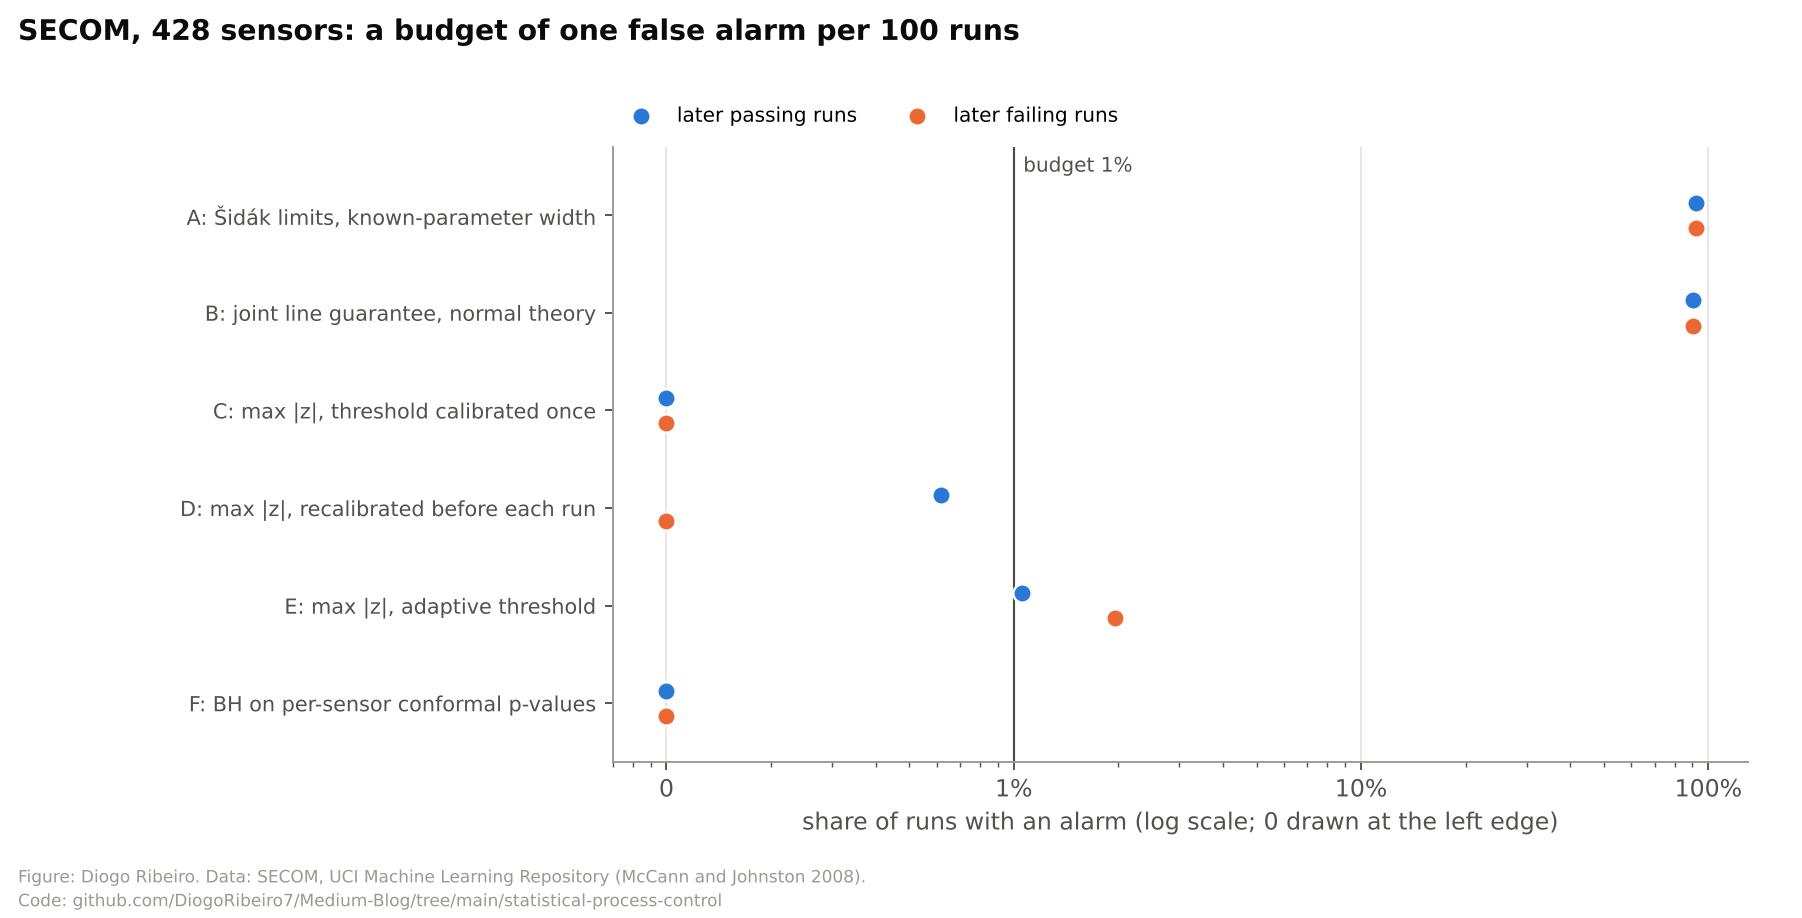
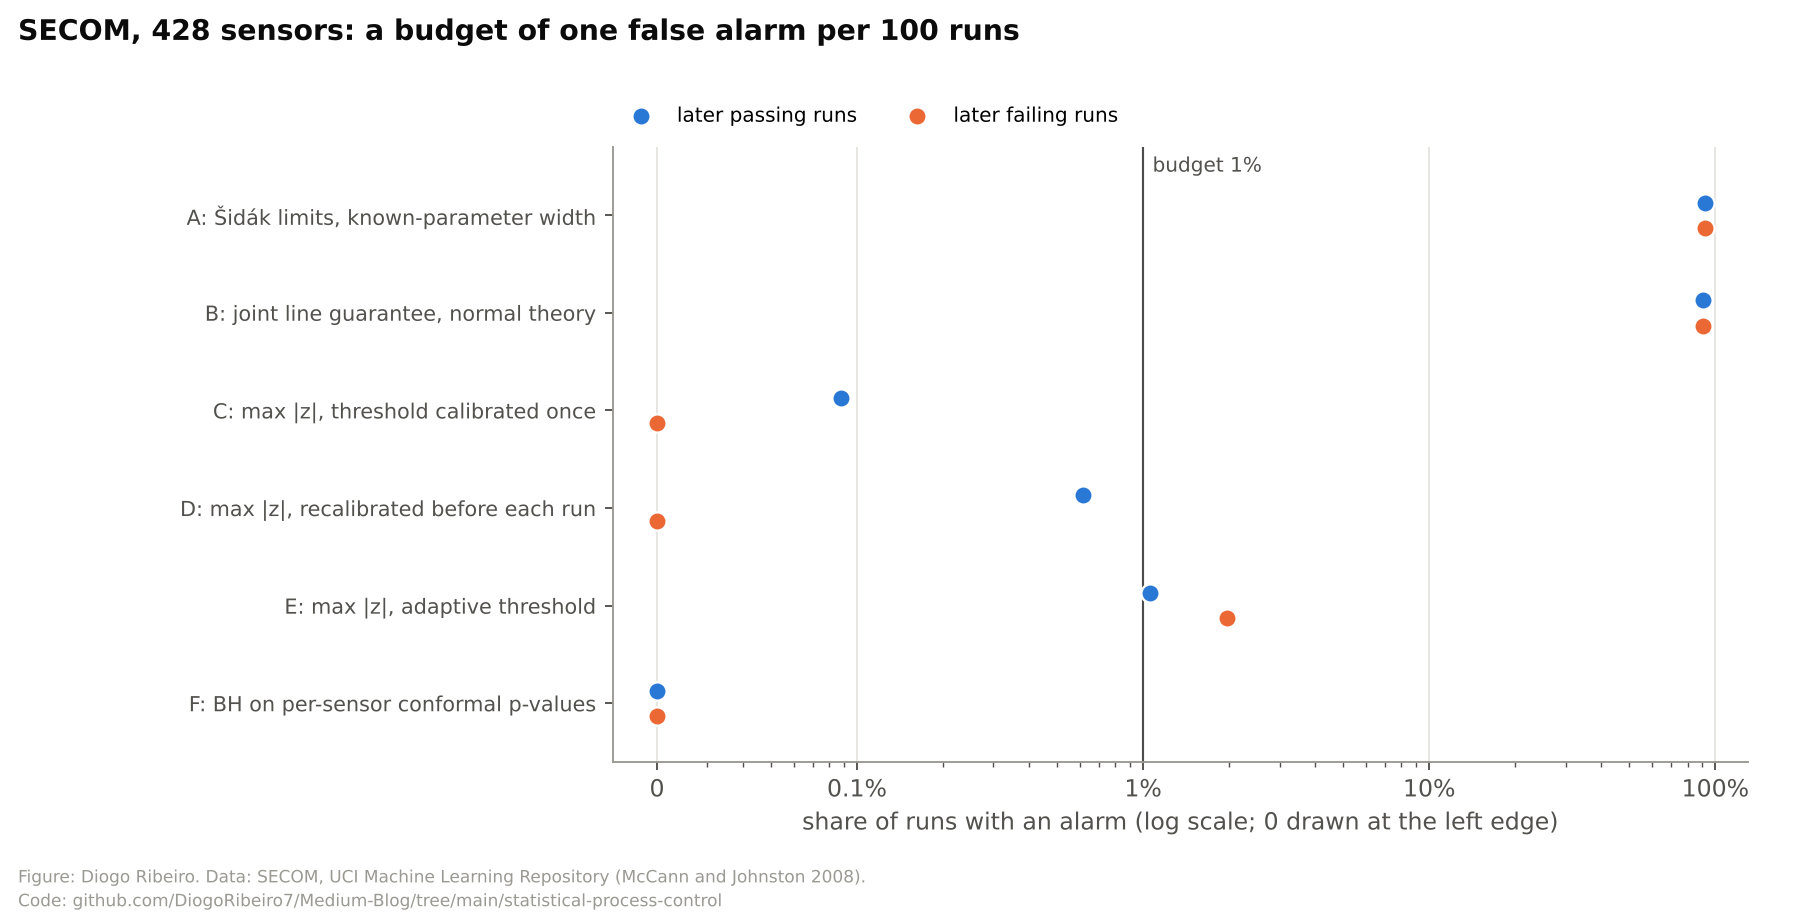
Statistical process control part 4: corrections from verification

diff --git a/statistical-process-control/part4/budget_numbers.py b/statistical-process-control/part4/budget_numbers.py
@@ -592,6 +592,22 @@ def section_secom() -> None:
               f" = {a_f / tf.sum():.3f}; Fisher p {pf:.3g}")
         fig[name] = {"pass": a_p / float(tp.sum()), "fail": a_f / float(tf.sum())}
     print(f"   design F: smallest p-value in a test run: minimum {min(min_p):.6f}, maximum {max(min_p):.6f}")
+    at_min = np.sum(np.isclose(PV, pv_min), axis=1)
+    le01 = np.sum(PV <= aL, axis=1)
+    print(f"   design F: sensors at the minimum p-value in one test run: median {np.median(at_min):.0f}, maximum "
+          f"{at_min.max()}; sensors with p <= {aL}: median {np.median(le01):.0f}, maximum {le01.max()} (BH needs {need})")
+    cols = np.flatnonzero(use)
+    j = int(np.nanargmax(Zabs[cal[np.argmax(score[cal])]]))
+    c = cols[j]
+    i_max = cal[np.argmax(score[cal])]
+    v = X[:, c]
+    print(f"   design C threshold comes from sensor column {c} (0-based) in calibration run {i_max} ({stamps[i_max]}): "
+          f"value {v[i_max]:.2f}; Phase I mean {mu[c]:.4f}, SD {sd[c]:.4f}, distinct Phase I values "
+          f"{len(np.unique(v[p1][~np.isnan(v[p1])]))}")
+    big = np.flatnonzero(np.abs(v - mu[c]) > 1000 * sd[c])
+    print(f"   runs where that sensor is more than 1,000 Phase I SDs from its Phase I mean: "
+          + ", ".join(f"{i} ({stamps[i].date()}, {v[i]:.2f})" for i in big))
+    print(f"   design C alarms: runs {[int(i) for i in np.flatnonzero(designs['C calibrated threshold, fixed'] & test)]}")
     late = test & ~fail
     months = np.array([s.strftime("%Y-%m") for s in stamps])
     for mo in np.unique(months[test]):

diff --git a/statistical-process-control/part4/figures.py b/statistical-process-control/part4/figures.py
@@ -245,7 +245,7 @@ def figure_secom() -> None:
             names[4]: "E: max |z|, adaptive threshold", names[5]: "F: BH on per-sensor conformal p-values"}
     fig, ax = plt.subplots(figsize=(10.6, 5.4))
     y = np.arange(len(names))[::-1]
-    floor = 1e-3
+    floor = 2e-4
     for off, key, col, label in ((0.13, "pass", BLUE, "later passing runs"), (-0.13, "fail", ORANGE, "later failing runs")):
         v = np.maximum([des[n][key] for n in names], floor)
         ax.scatter(v, y + off, s=60, color=col, edgecolor="white", linewidth=1.0, zorder=3, label=label)
@@ -254,8 +254,8 @@ def figure_secom() -> None:
                 color=INK2, va="center")
     ax.set_xscale("log")
     ax.set_xlim(floor * 0.7, 1.3)
-    ax.set_xticks([1e-3, 1e-2, 1e-1, 1])
-    ax.set_xticklabels(["0", "1%", "10%", "100%"])
+    ax.set_xticks([floor, 1e-3, 1e-2, 1e-1, 1])
+    ax.set_xticklabels(["0", "0.1%", "1%", "10%", "100%"])
     ax.xaxis.set_minor_formatter(matplotlib.ticker.NullFormatter())
     ax.set_yticks(y)
     ax.set_yticklabels([nice[n] for n in names], fontsize=8.8)
